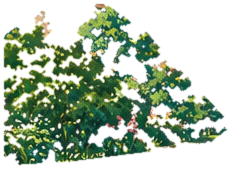
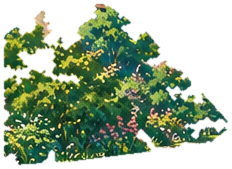
Elderbrook mill: cut-out objects sort against Sol per pixel; no stray specks in the bushes

diff --git a/eb/eb.js b/eb/eb.js
@@ -771,14 +771,16 @@ let wheelSpin = null;
 // it was painted, with the scene repainted behind it. They are still for now; each carries what a motion pass needs (time, anchor, weights).
 const props = [];
 { const pj = await vfetch(`${base}_props.json`).then(r => r.ok ? r.json() : null).catch(() => null);
+  const depthO = pj ? await texLoader.loadAsync(`${base}_depth_orig.png`).then(t => { t.colorSpace = THREE.NoColorSpace; t.generateMipmaps = false; t.minFilter = t.magFilter = THREE.NearestFilter; return t; }).catch(() => null) : null;
   if (pj && !params.has("noprops")) for (const pr of pj.props) { const tex = await texLoader.loadAsync(`${base}_prop_${pr.name}.png`); tex.colorSpace = THREE.SRGBColorSpace; tex.generateMipmaps = false; tex.minFilter = THREE.LinearFilter;
     const [PW, PH] = pj.size, [x0, y0, x1, y1] = pr.rect, g = new THREE.PlaneGeometry(1, 1, 24, 16), pos = g.attributes.position, uv = g.attributes.uv, wgt = new Float32Array(pos.count);
     for (let k = 0; k < pos.count; k++) { const ux = uv.getX(k), uy = uv.getY(k); pos.setXYZ(k, (x0 + (x1 - x0) * ux) / PW * 2 - 1, 1 - (y1 - (y1 - y0) * uy) / PH * 2, 0);
       wgt[k] = pr.anchor === "top" ? 1 - uy : pr.anchor === "left" ? ux : uy; }                       // 0 where it is rooted, 1 at its free end
     g.setAttribute("wgt", new THREE.BufferAttribute(wgt, 1));
-    const mat = new THREE.ShaderMaterial({ transparent: true, depthTest: false, depthWrite: false, uniforms: { map: { value: tex }, t: { value: 0 }, amp: { value: +(params.get("sway") ?? 1.5) }, kind: { value: pr.wind ? 3 : pr.anchor === "top" ? 0 : pr.anchor === "left" ? 1 : 2 }, hw: { value: new THREE.Vector4(...(pr.wind ? [pr.wind.I, pr.wind.D, pr.wind.G, pr.wind.S] : [0, 0, 0, 0])) }, hwAmp: { value: pr.wind ? pr.wind.amp : 0 }, hwSeed: { value: pr.wind ? pr.wind.seed : 0 }, seed: { value: props.length * 2.37 + 0.6 }, px: { value: 2 / PW }, asp: { value: PW / PH } },
-      vertexShader: `attribute float wgt; uniform float t, amp, kind, seed, px, asp, hwAmp, hwSeed; uniform vec4 hw; varying vec2 vUv;
-        void main(){ vUv = uv; vec2 p = position.xy; float sx = p.x * 3.0;
+    const pe = camera.projectionMatrix.elements, Dp = pr.depth || 3, zN = (-pe[10] * Dp + pe[14]) / Dp;      // drawn at its own painted depth, so Sol sorts in front of or behind it
+    const mat = new THREE.ShaderMaterial({ transparent: true, depthTest: true, depthWrite: false, uniforms: { zN: { value: zN }, depthO: { value: depthO }, useD: { value: depthO ? 1 : 0 }, nearF: { value: new THREE.Vector2(NEAR, FAR) }, map: { value: tex }, t: { value: 0 }, amp: { value: +(params.get("sway") ?? 1.5) }, kind: { value: pr.wind ? 3 : pr.anchor === "top" ? 0 : pr.anchor === "left" ? 1 : 2 }, hw: { value: new THREE.Vector4(...(pr.wind ? [pr.wind.I, pr.wind.D, pr.wind.G, pr.wind.S] : [0, 0, 0, 0])) }, hwAmp: { value: pr.wind ? pr.wind.amp : 0 }, hwSeed: { value: pr.wind ? pr.wind.seed : 0 }, seed: { value: props.length * 2.37 + 0.6 }, px: { value: 2 / PW }, asp: { value: PW / PH } },
+      vertexShader: `attribute float wgt; uniform float t, amp, kind, seed, px, asp, hwAmp, hwSeed, zN; uniform vec4 hw; varying vec2 vUv; varying vec2 vPl;
+        void main(){ vUv = uv; vec2 p = position.xy; vPl = p * 0.5 + 0.5; float sx = p.x * 3.0;
           // one wind for the whole scene, blowing to the right in slow gusts that cross the screen; every object answers it in its own way
           float gust = smoothstep(0.15, 0.95, 0.5 + 0.35 * sin(t * 0.21 - p.x * 1.1 + 0.8) + 0.25 * sin(t * 0.13 - p.x * 0.6 + 2.0));
           float wind = 0.3 + 0.7 * gust; vec2 d = vec2(0.0);
@@ -797,16 +799,19 @@ const props = [];
             vec2 pl = p * vec2(asp, 1.0) * 6.0;                                                        // the clump's own coordinates
             float w1 = sin(tt * 30.0 + pl.x * hw.y) * 0.01 * gust, w2 = cos(tt * 42.0 + pl.y * hw.y) * 0.02 * gust;
             d.x = w * (w1 * -0.5 + w2 * -0.3) / 0.06 * hwAmp;  d.y = w * (w1 * 0.25 - w2 * 0.5) / 0.06 * hwAmp * 0.15;
-            gl_Position = vec4(p + d * px * vec2(1.0, asp), 0.0, 1.0); return;
+            gl_Position = vec4(p + d * px * vec2(1.0, asp), zN, 1.0); return;
           } else {                     // flowers: stems bend from the ground, heads bobbing, each clump on its own beat
             float w = wgt * wgt, ph = sx * 9.0 + seed;
             float sw = 0.6 * sin(t * 1.25 + ph) + 0.4 * sin(t * 2.6 + ph * 1.8);
             d.x = w * (wind * 5.0 * sw + gust * 3.5);  d.y = -w * abs(d.x / max(w, 0.05)) * 0.10;
           }
-          gl_Position = vec4(p + d * amp * px * vec2(1.0, asp), 0.0, 1.0); }`,
-      fragmentShader: `uniform sampler2D map; varying vec2 vUv;
+          gl_Position = vec4(p + d * amp * px * vec2(1.0, asp), zN, 1.0); }`,
+      fragmentShader: `uniform sampler2D map, depthO; uniform float useD; uniform vec2 nearF; varying vec2 vUv; varying vec2 vPl;
         void main(){ vec4 c = texture2D(map, vUv); if (c.a < 0.01) discard; gl_FragColor = c;
           #include <colorspace_fragment>
+          // each pixel sits at the depth the painting gave it, so Sol passes in front of the near parts and behind the far ones
+          float z = 1e9; if (useD > 0.5) { vec3 dq = floor(texture2D(depthO, vPl).rgb * 255.0 + 0.5); z = nearF.x / max((dq.r * 65536.0 + dq.g * 256.0 + dq.b) / 16777215.0, 1e-6); }
+          gl_FragDepth = useD > 0.5 ? (((nearF.y + nearF.x) / (nearF.y - nearF.x) - (2.0 * nearF.y * nearF.x) / ((nearF.y - nearF.x) * min(z * 0.975, nearF.y * 0.98))) * 0.5 + 0.5) : gl_FragCoord.z;
         }` });
     const m = new THREE.Mesh(g, mat); m.frustumCulled = false; m.renderOrder = 7; m.name = pr.name; scene.add(m); props.push(m); } }
 const wheelFx = (() => { if (!wheelSpin || !params.has("oldvfx")) return null;
